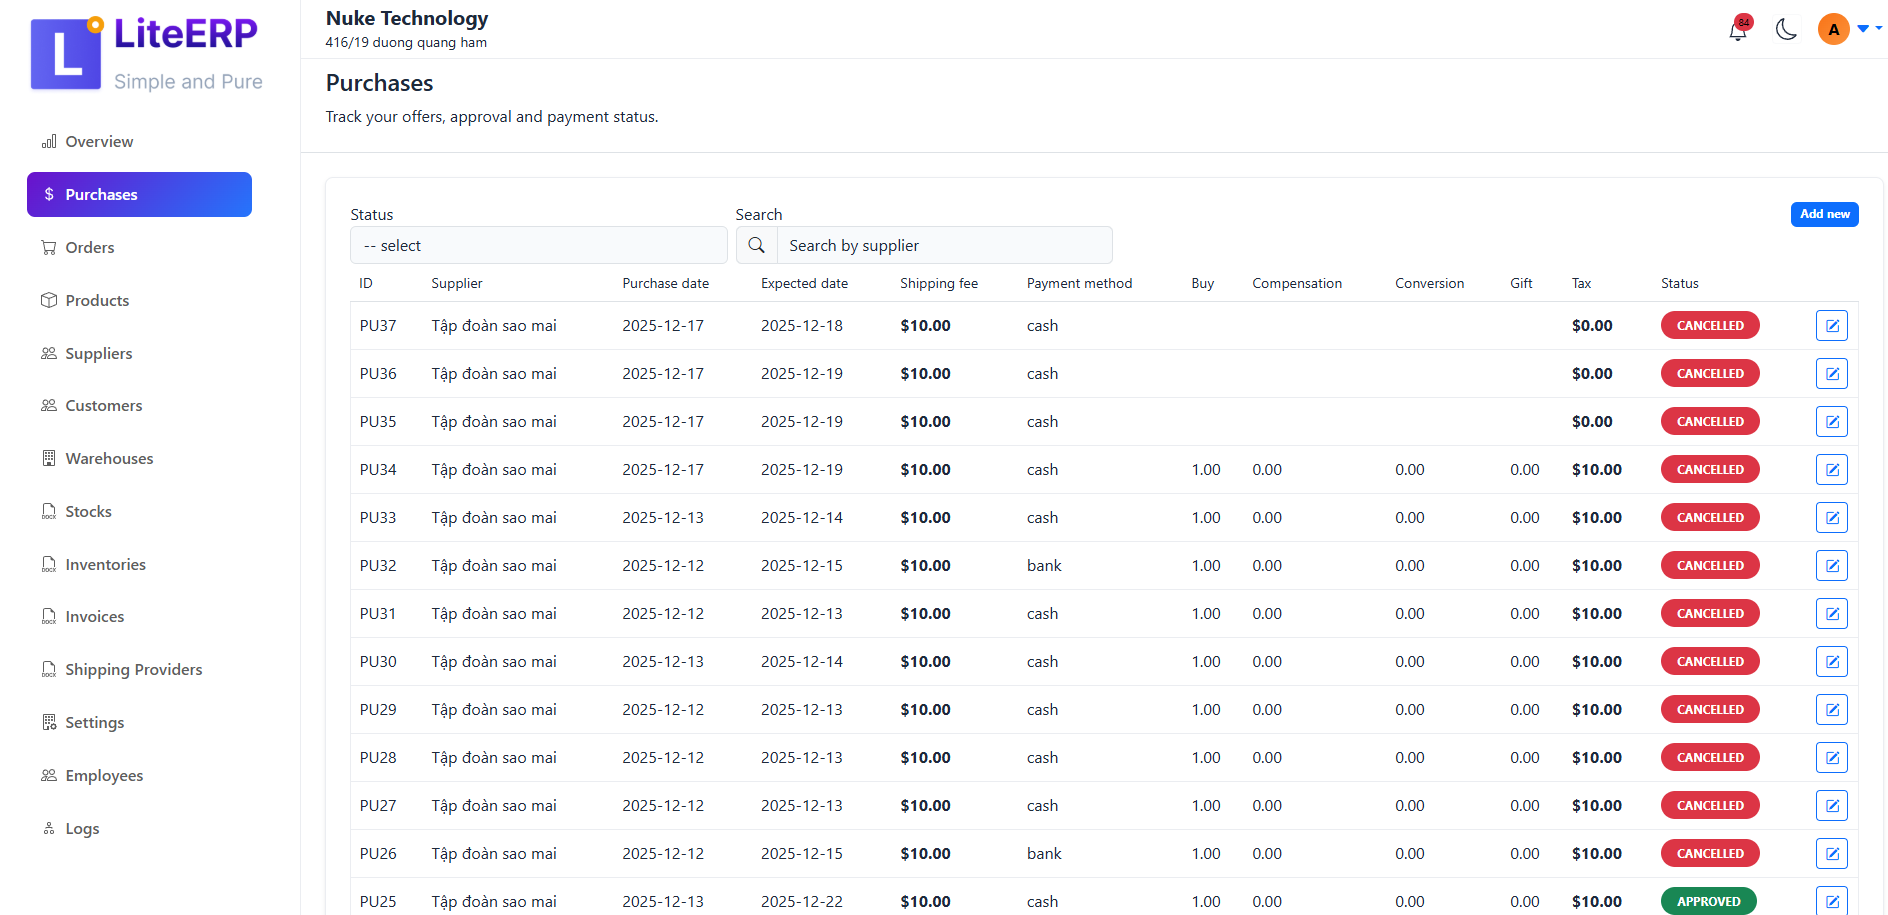
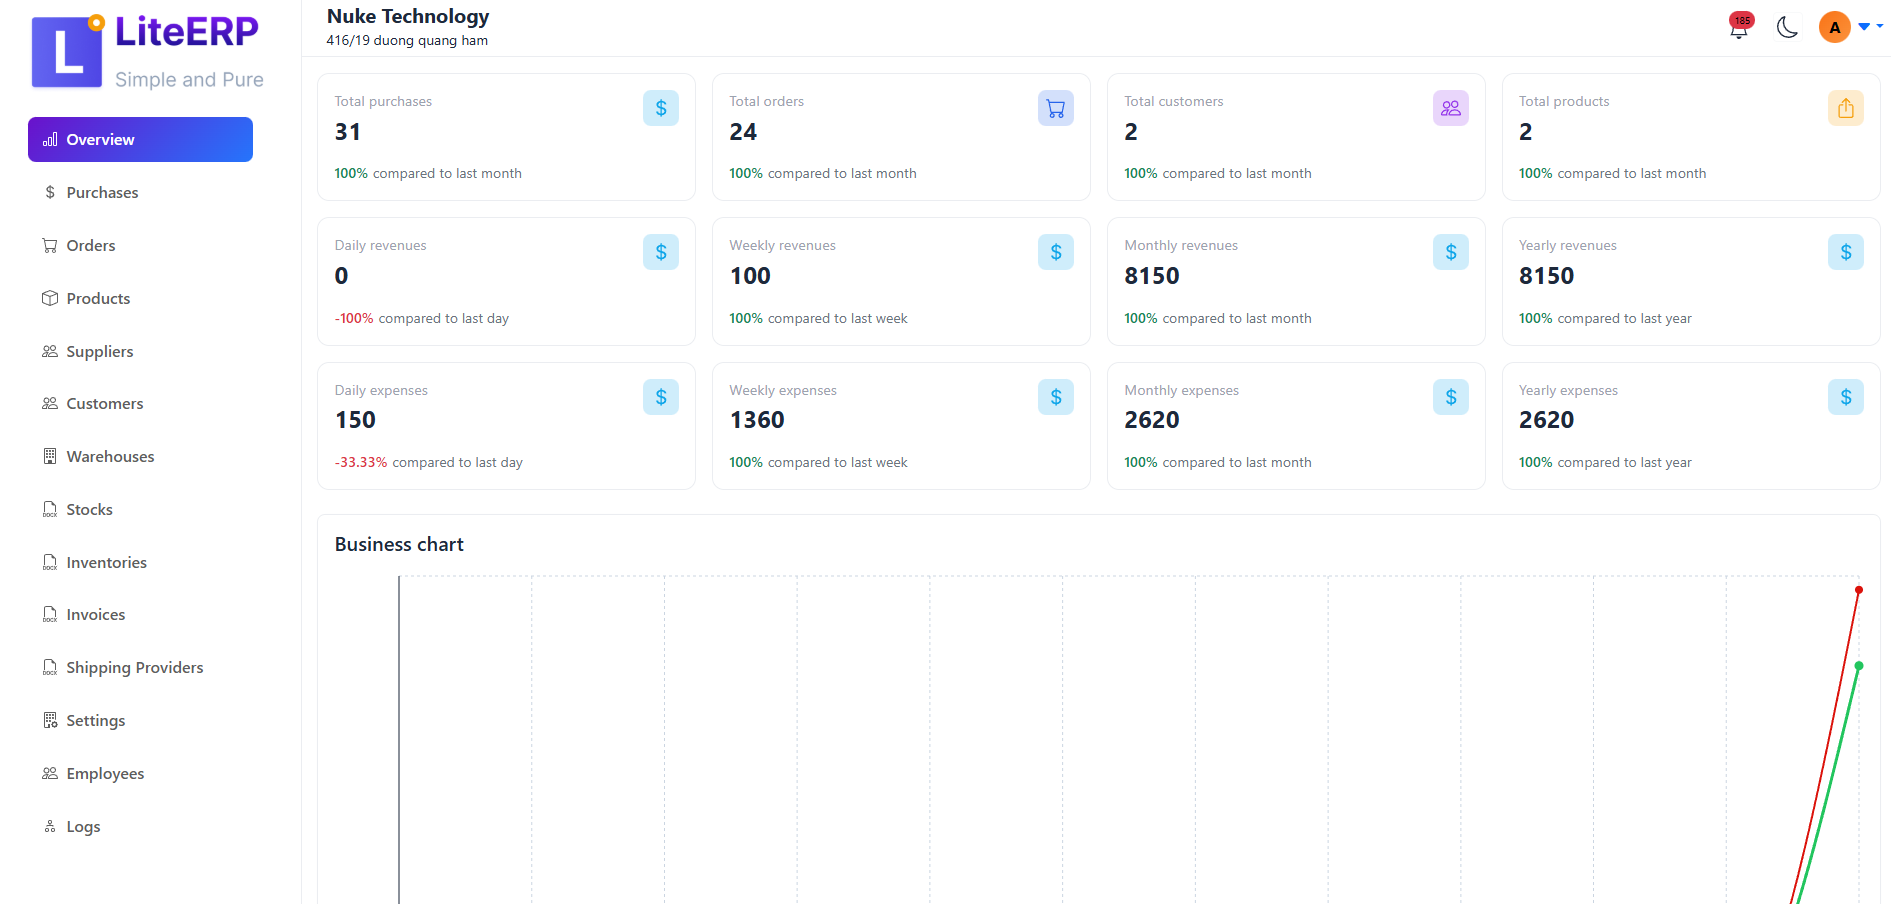
Add screenshoot to readme

diff --git a/readme.md b/readme.md
@@ -8,6 +8,17 @@
   Lightweight Open-Source ERP for internal business use.
 </p>
 
+---
+
+
+<p align="center">
+  <img src="screenshoot.PNG" alt="LiteERP Logo" />
+</p>
+
+
+---
+
+
 # 🏢 LiteERP – Clean Architecture & Domain Driven Design
 
 This LiteERP is built with **ReactJS**, **Laravel**, and **MySQL8**, following modern software architecture principles including **Clean Architecture**, **Domain-Driven Design (DDD)**, and **Domain Events**.  
